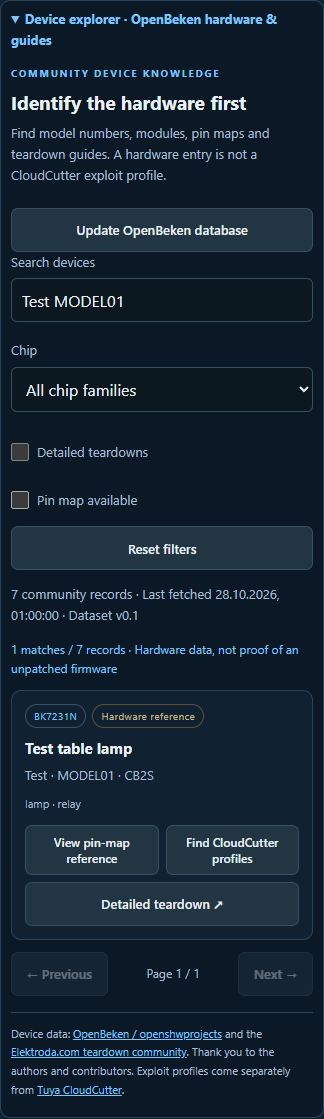
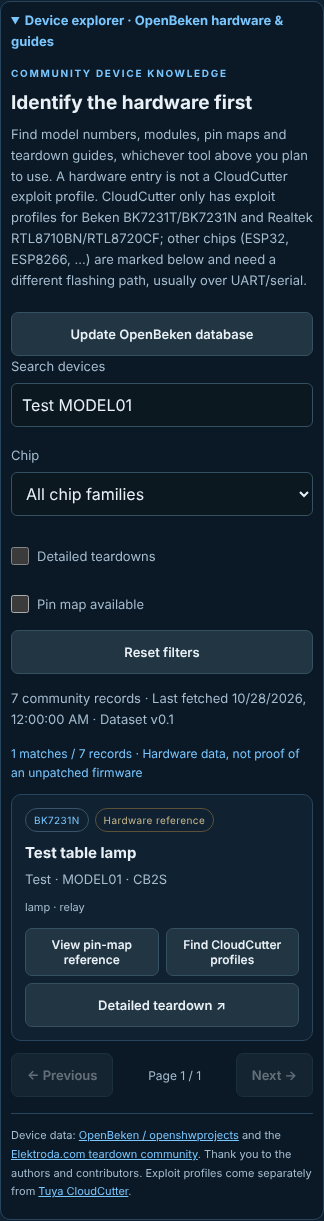
Unify the hardware explorer across tools and flag unsupported chips
- The OpenBeken hardware explorer is now a shared, always-visible
  reference panel instead of being nested only inside the CloudCutter
  tab, since chip/module identification is useful before choosing any
  of the three tools.
- "Find CloudCutter profiles" now switches to the CloudCutter tab by
  itself, reusing the existing tab-switch handler, instead of requiring
  a manual tab switch first.
- Mark hardware-explorer devices whose chip (ESP32, ESP8266, ...) has
  no CloudCutter exploit profile with a short note instead of a
  dead-end "Find CloudCutter profiles" search. CloudCutter only covers
  Beken BK7231T/BK7231N and Realtek RTL8710BN/RTL8720CF; the frontend
  constant mirrors breaker_catalog.CHIPS, the backend source of truth.
- Remove a dead, overridden .tool-tabs CSS rule and align the
  CloudCutter tab label with the name used elsewhere in the app
  ("Tuya CloudCutter").
- Bump to 2026.11.20.4 and update the WebUI/Playwright check and its
  screenshots for the new layout.

Verified: tools/sync_project.py --check, the shared hass-workflows
validator, the full Python test suite (116 tests, including the
CloudCutter catalogue/controller tests), tests/test_webui.cjs, and
tools/check_breaker_ui.cjs at all three breakpoints all pass.

diff --git a/tuya_breaker/app/static/style.css b/tuya_breaker/app/static/style.css
@@ -19,14 +19,14 @@ button,.button,input,select{min-height:44px}summary{min-height:44px;align-conten
 .log-actions button{min-height:44px}.follow{display:flex;align-items:center;gap:5px;min-height:44px}.follow input{min-height:20px}
 @media(max-width:600px){header{align-items:flex-start;flex-wrap:wrap}.version{display:inline-block}.section-heading,.adapter-settings,.preparation-body{padding:14px 16px}.toolbar,.firmware-card{padding:16px}.actions{width:100%}.actions>*{flex:1 1 140px}input,select{font-size:16px}.risk-check{font-size:13px}.log-actions{flex-wrap:wrap}#choice-form{padding:14px}#choice-form button{flex:1}pre{height:clamp(240px,45svh,380px);padding:14px}.firmware-card{margin-top:16px}.firmware-card form button{width:100%}}
 
-.tool-card{margin-bottom:18px}.tool-tabs{display:flex;gap:10px;flex-wrap:wrap;margin-bottom:12px}.tool-tabs>*{flex:1}.tool-card input,.tool-card select{display:block;width:100%;max-width:100%;margin:6px 0 14px}.tool-card label{display:block;font-size:13px;color:var(--muted);margin-top:12px}.tool-card p{font-size:13px}.tool-card .hint{padding:8px 0}.tool-card form{margin-top:14px}.tool-card form button{margin:8px 0}.tool-card #cc-review{color:#ffdbb0}.tool-tabs [aria-pressed=true]{border-color:var(--cyan)}
+.tool-card{margin-bottom:18px}.tool-card input,.tool-card select{display:block;width:100%;max-width:100%;margin:6px 0 14px}.tool-card label{display:block;font-size:13px;color:var(--muted);margin-top:12px}.tool-card p{font-size:13px}.tool-card .hint{padding:8px 0}.tool-card form{margin-top:14px}.tool-card form button{margin:8px 0}.tool-card #cc-review{color:#ffdbb0}.tool-tabs [aria-pressed=true]{border-color:var(--cyan)}
 @media(max-width:600px){.tool-card button,.tool-card .button{width:100%}.tool-tabs button{width:auto}.tool-card h2{font-size:17px}}
 :root{--cyan:#7ac7ff;--accent-fill:#7ac7ff;--bg:#09131d;--panel:#102131;--line:#27465e;--muted:#a6bdd0;--button-text:#09212b}
 button:not(.secondary):not(.danger),.button:not(.secondary){background:var(--accent-fill);color:var(--button-text)}
 button,.button{color:var(--button-text)}button.secondary,.button.secondary{color:var(--text)}button.danger{color:#ffb3ac}.risk-check input{min-height:20px}
 .appearance-card{padding:12px 16px;margin-bottom:18px}.appearance-card summary{font-weight:600}.appearance-card label{font-size:13px}.appearance-card input{width:52px;height:44px;vertical-align:middle;margin:0 10px}.appearance-card output{font:12px ui-monospace,monospace;margin-right:12px}.appearance-card .hint{padding:8px 0 0}
 
-.tool-tabs {display:grid;grid-template-columns:repeat(3,minmax(0,1fr));gap:.5rem}
+.tool-tabs {display:grid;grid-template-columns:repeat(3,minmax(0,1fr));gap:.5rem;margin-bottom:12px}
 .tool-tabs button {min-width:0;overflow-wrap:anywhere;font-size:clamp(.75rem,2.8vw,1rem);padding:.7rem .35rem}
 .ll-backup {border-top:1px solid var(--line);padding:1rem 0}
 .ll-backup .hint {overflow-wrap:anywhere}
@@ -49,7 +49,7 @@ footer .footer-actions{display:flex;flex-wrap:wrap;justify-content:center;gap:8p
 footer .support-link{display:inline-flex;align-items:center;justify-content:center;color:var(--cyan);text-decoration:none;border:1px solid var(--line);border-radius:7px;padding:6px 12px}
 footer .support-link:hover{border-color:var(--cyan)}
 
-.hardware-explorer{margin:16px 0;padding:0 14px 14px;border:1px solid var(--line);border-radius:10px;background:#0b1926}.hardware-explorer>summary{font-weight:650;padding:8px 0}.explorer-heading{display:flex;align-items:start;justify-content:space-between;gap:16px}.explorer-heading h3{margin:4px 0;font-size:19px}.explorer-heading p{max-width:620px}.explorer-filters{display:grid;grid-template-columns:minmax(0,2fr) minmax(0,1fr);gap:4px 16px;align-items:end}.explorer-filters label{margin:0}.tool-card .explorer-check{display:flex;align-items:center;gap:8px;min-height:44px;font-size:13px}.tool-card .explorer-check input{width:18px;min-height:18px;height:18px;margin:0;accent-color:var(--cyan)}.device-grid{display:grid;grid-template-columns:repeat(auto-fit,minmax(min(100%,260px),1fr));gap:12px;margin:12px 0}.device-tile{padding:16px;border:1px solid var(--line);border-radius:10px;background:var(--panel);min-width:0}.device-tile h4{font-size:15px;line-height:1.4;margin:10px 0 5px;overflow-wrap:anywhere}.device-tile p{overflow-wrap:anywhere}.device-badges{display:flex;gap:6px;flex-wrap:wrap}.device-badges span{font-size:10px;letter-spacing:.4px;border:1px solid #38546a;border-radius:20px;padding:3px 8px;color:var(--cyan)}.device-badges span.reference{color:#c6b98d;border-color:#5c5138}.device-tile .device-keywords{font-size:11px;color:var(--muted);margin:9px 0}.device-tile-actions{display:flex;flex-wrap:wrap;gap:7px;margin-top:12px}.device-tile-actions>*{flex:1 1 130px}.device-tile-actions button{padding:8px;font-size:12px}.explorer-pages{display:flex;justify-content:space-between;align-items:center;gap:12px}.explorer-pages span{font-size:12px;color:var(--muted)}.tool-card .explorer-credits{font-size:11px;line-height:1.7;border-top:1px solid var(--line);padding-top:12px;margin-top:16px}.explorer-empty{padding:24px;border:1px dashed var(--line);border-radius:8px;color:var(--muted)}#ob-count{font-size:12px;color:var(--cyan)}#ob-dialog{background:var(--panel);color:var(--text);border:1px solid var(--line);border-radius:12px;width:min(760px,calc(100% - 24px));max-height:90svh;overflow:auto;padding:20px}#ob-dialog::backdrop{background:#03090ed9}.dialog-heading{display:flex;align-items:center;justify-content:space-between;gap:12px}.dialog-heading h3{margin:0;overflow-wrap:anywhere}.reference-warning{color:#e5c894;font-size:12px}#ob-template-json{background:var(--bg);height:auto;max-height:42svh;margin:14px 0;border-radius:8px}.dialog-heading button{flex:none}
+.hardware-explorer{margin:16px 0;padding:0 14px 14px;border:1px solid var(--line);border-radius:10px;background:#0b1926}.hardware-explorer>summary{font-weight:650;padding:8px 0}.explorer-heading{display:flex;align-items:start;justify-content:space-between;gap:16px}.explorer-heading h3{margin:4px 0;font-size:19px}.explorer-heading p{max-width:620px}.explorer-filters{display:grid;grid-template-columns:minmax(0,2fr) minmax(0,1fr);gap:4px 16px;align-items:end}.explorer-filters label{margin:0}.tool-card .explorer-check{display:flex;align-items:center;gap:8px;min-height:44px;font-size:13px}.tool-card .explorer-check input{width:18px;min-height:18px;height:18px;margin:0;accent-color:var(--cyan)}.device-grid{display:grid;grid-template-columns:repeat(auto-fit,minmax(min(100%,260px),1fr));gap:12px;margin:12px 0}.device-tile{padding:16px;border:1px solid var(--line);border-radius:10px;background:var(--panel);min-width:0}.device-tile h4{font-size:15px;line-height:1.4;margin:10px 0 5px;overflow-wrap:anywhere}.device-tile p{overflow-wrap:anywhere}.device-badges{display:flex;gap:6px;flex-wrap:wrap}.device-badges span{font-size:10px;letter-spacing:.4px;border:1px solid #38546a;border-radius:20px;padding:3px 8px;color:var(--cyan)}.device-badges span.reference{color:#c6b98d;border-color:#5c5138}.device-badges span.unsupported{color:#ffb3ac;border-color:#5c3a38}.device-tile .device-keywords{font-size:11px;color:var(--muted);margin:9px 0}.device-tile-actions{display:flex;flex-wrap:wrap;gap:7px;margin-top:12px}.device-tile-actions>*{flex:1 1 130px}.device-tile-actions button{padding:8px;font-size:12px}.device-tile-actions .unsupported-hint{flex:1 1 100%;color:var(--muted);font-size:11px;padding:4px 0;margin:0}.explorer-pages{display:flex;justify-content:space-between;align-items:center;gap:12px}.explorer-pages span{font-size:12px;color:var(--muted)}.tool-card .explorer-credits{font-size:11px;line-height:1.7;border-top:1px solid var(--line);padding-top:12px;margin-top:16px}.explorer-empty{padding:24px;border:1px dashed var(--line);border-radius:8px;color:var(--muted)}#ob-count{font-size:12px;color:var(--cyan)}#ob-dialog{background:var(--panel);color:var(--text);border:1px solid var(--line);border-radius:12px;width:min(760px,calc(100% - 24px));max-height:90svh;overflow:auto;padding:20px}#ob-dialog::backdrop{background:#03090ed9}.dialog-heading{display:flex;align-items:center;justify-content:space-between;gap:12px}.dialog-heading h3{margin:0;overflow-wrap:anywhere}.reference-warning{color:#e5c894;font-size:12px}#ob-template-json{background:var(--bg);height:auto;max-height:42svh;margin:14px 0;border-radius:8px}.dialog-heading button{flex:none}
 @media(max-width:600px){.hardware-explorer{padding:0 10px 12px}.explorer-heading{flex-direction:column}.explorer-filters{grid-template-columns:1fr}.explorer-pages button{width:auto}.device-tile{padding:13px}.dialog-heading button{width:auto}.device-tile-actions>*{width:100%}}
 
 

diff --git a/tuya_breaker/app/static/index.html b/tuya_breaker/app/static/index.html
@@ -13,9 +13,26 @@
 <main>
 <section class="card tool-card"><div class="section-heading"><div><span class="eyebrow">EXPERIMENTAL · CHOOSE A TOOL</span><h2>One workspace, one active radio</h2></div></div>
 <div class="adapter-settings"><div class="tool-tabs" role="group" aria-label="Flashing tool">
-<button id="tool-untuyaos3" type="button" aria-pressed="true">UnTuyaOS3</button><button id="tool-lightleak" class="secondary" type="button" aria-pressed="false">Lightleak</button><button id="tool-cloudcutter" class="secondary" type="button" aria-pressed="false">Tuya-Cloudcutter</button></div>
+<button id="tool-untuyaos3" type="button" aria-pressed="true">UnTuyaOS3</button><button id="tool-lightleak" class="secondary" type="button" aria-pressed="false">Lightleak</button><button id="tool-cloudcutter" class="secondary" type="button" aria-pressed="false">Tuya CloudCutter</button></div>
 <p id="tool-description">UnTuyaOS3: use the established platform and firmware menus.</p>
 <p class="hint">The tools use different exploits. A successful run with one does not establish compatibility with the other. Tool selection unlocks after cleanup.</p>
+<details id="hardware-explorer" class="hardware-explorer"><summary>Device explorer · OpenBeken hardware & guides</summary>
+<div class="explorer-heading"><div><span class="eyebrow">COMMUNITY DEVICE KNOWLEDGE</span><h3>Identify the hardware first</h3><p>Find model numbers, modules, pin maps and teardown guides, whichever tool above you plan to use. A hardware entry is not a CloudCutter exploit profile. CloudCutter only has exploit profiles for Beken BK7231T/BK7231N and Realtek RTL8710BN/RTL8720CF; other chips (ESP32, ESP8266, …) are marked below and need a different flashing path, usually over UART/serial.</p></div>
+<button id="ob-refresh" class="secondary" type="button">Update OpenBeken database</button></div>
+<div class="explorer-filters"><label>Search devices<input id="ob-search" type="search" placeholder="Action, LSC, model, module, keywords…" autocomplete="off"></label>
+<label>Chip<select id="ob-chip"><option value="">All chip families</option></select></label>
+<label class="explorer-check"><input id="ob-detailed" type="checkbox"> Detailed teardowns</label><label class="explorer-check"><input id="ob-template" type="checkbox"> Pin map available</label>
+<button id="ob-reset" class="secondary" type="button">Reset filters</button></div>
+<p id="ob-meta" class="hint">Database not loaded yet. Update it once; the cached list remains available offline.</p>
+<p id="ob-count" role="status" aria-live="polite"></p><div id="ob-results" class="device-grid"></div>
+<nav class="explorer-pages" aria-label="Device results pages"><button id="ob-previous" class="secondary" type="button" disabled>← Previous</button><span id="ob-page">Page 1</span><button id="ob-next" class="secondary" type="button" disabled>Next →</button></nav>
+<p class="explorer-credits">Device data: <a href="https://openbekeniot.github.io/webapp/devicesList.html" target="_blank" rel="noopener noreferrer">OpenBeken / openshwprojects</a> and the <a href="https://www.elektroda.com/rtvforum/forum507.html" target="_blank" rel="noopener noreferrer">Elektroda.com teardown community</a>. Thank you to the authors and contributors. Exploit profiles come separately from <a href="https://github.com/tuya-cloudcutter/tuya-cloudcutter" target="_blank" rel="noopener noreferrer">Tuya CloudCutter</a>.</p>
+<dialog id="ob-dialog" aria-labelledby="ob-dialog-title"><div class="dialog-heading"><h3 id="ob-dialog-title">Hardware reference</h3><button id="ob-close" class="secondary" type="button" autofocus>Close ×</button></div>
+<p id="ob-dialog-meta"></p><p class="reference-warning">Reference only. Match the exact hardware revision before using any pin map. This does not establish OTA exploit compatibility. Nothing here is applied to a device.</p>
+<pre id="ob-template-json" tabindex="0" aria-label="Read-only OpenBeken hardware template"></pre><button id="ob-copy" class="secondary" type="button">Copy reference JSON</button>
+<p class="hint">Original community data; configurations may be partial. Consult the linked teardown.</p></dialog>
+</details>
+
 <div id="lightleak-settings" hidden>
 <details id="ll-configuration" open><summary>Lightleak · chip, AP and flash backup</summary>
 <p><strong>Experimental. Lightleak setup writes target flash and can brick your device.</strong> It installs a Wi-Fi stager and erases/writes a payload sector before reading a 2 MiB dump. The dump contains secrets and payload changes. This mode does not install replacement firmware.</p>
@@ -36,23 +53,6 @@
 <div id="cloudcutter-settings" hidden>
 <details id="cc-configuration" open><summary>Device profile and operation</summary>
 <p><strong>CloudCutter needs an exact device/firmware profile.</strong> Check the original firmware version before removing the device from SmartLife. Patched firmware cannot be made vulnerable by selecting another profile.</p>
-<details id="hardware-explorer" class="hardware-explorer"><summary>Device explorer · OpenBeken hardware & guides</summary>
-<div class="explorer-heading"><div><span class="eyebrow">COMMUNITY DEVICE KNOWLEDGE</span><h3>Identify the hardware first</h3><p>Find model numbers, modules, pin maps and teardown guides. A hardware entry is not a CloudCutter exploit profile.</p></div>
-<button id="ob-refresh" class="secondary" type="button">Update OpenBeken database</button></div>
-<div class="explorer-filters"><label>Search devices<input id="ob-search" type="search" placeholder="Action, LSC, model, module, keywords…" autocomplete="off"></label>
-<label>Chip<select id="ob-chip"><option value="">All chip families</option></select></label>
-<label class="explorer-check"><input id="ob-detailed" type="checkbox"> Detailed teardowns</label><label class="explorer-check"><input id="ob-template" type="checkbox"> Pin map available</label>
-<button id="ob-reset" class="secondary" type="button">Reset filters</button></div>
-<p id="ob-meta" class="hint">Database not loaded yet. Update it once; the cached list remains available offline.</p>
-<p id="ob-count" role="status" aria-live="polite"></p><div id="ob-results" class="device-grid"></div>
-<nav class="explorer-pages" aria-label="Device results pages"><button id="ob-previous" class="secondary" type="button" disabled>← Previous</button><span id="ob-page">Page 1</span><button id="ob-next" class="secondary" type="button" disabled>Next →</button></nav>
-<p class="explorer-credits">Device data: <a href="https://openbekeniot.github.io/webapp/devicesList.html" target="_blank" rel="noopener noreferrer">OpenBeken / openshwprojects</a> and the <a href="https://www.elektroda.com/rtvforum/forum507.html" target="_blank" rel="noopener noreferrer">Elektroda.com teardown community</a>. Thank you to the authors and contributors. Exploit profiles come separately from <a href="https://github.com/tuya-cloudcutter/tuya-cloudcutter" target="_blank" rel="noopener noreferrer">Tuya CloudCutter</a>.</p>
-<dialog id="ob-dialog" aria-labelledby="ob-dialog-title"><div class="dialog-heading"><h3 id="ob-dialog-title">Hardware reference</h3><button id="ob-close" class="secondary" type="button" autofocus>Close ×</button></div>
-<p id="ob-dialog-meta"></p><p class="reference-warning">Reference only. Match the exact hardware revision before using any pin map. This does not establish OTA exploit compatibility. Nothing here is applied to a device.</p>
-<pre id="ob-template-json" tabindex="0" aria-label="Read-only OpenBeken hardware template"></pre><button id="ob-copy" class="secondary" type="button">Copy reference JSON</button>
-<p class="hint">Original community data; configurations may be partial. Consult the linked teardown.</p></dialog>
-</details>
-
 <button id="cc-refresh" class="secondary" type="button">Load / refresh official device catalogue</button>
 <details id="cc-device-picker" open><summary>1 · Find the exact device and original firmware</summary><div class="cc-picker-heading"><span class="eyebrow">1 · FIND YOUR EXACT DEVICE</span><h3>Device and original firmware</h3><p class="hint">Search the model and the firmware version shown in SmartLife. Similar hardware alone is not a match.</p></div>
 <div class="cc-filters"><div><label for="cc-search">Search model or firmware</label><input id="cc-search" type="search" placeholder="Brand, model, original firmware…" autocomplete="off"></div><div><label for="cc-brand">Brand</label><select id="cc-brand"><option value="">All brands</option></select></div></div>

diff --git a/tuya_breaker/ui/hardware.css b/tuya_breaker/ui/hardware.css
@@ -1,2 +1,2 @@
-.hardware-explorer{margin:16px 0;padding:0 14px 14px;border:1px solid var(--line);border-radius:10px;background:#0b1926}.hardware-explorer>summary{font-weight:650;padding:8px 0}.explorer-heading{display:flex;align-items:start;justify-content:space-between;gap:16px}.explorer-heading h3{margin:4px 0;font-size:19px}.explorer-heading p{max-width:620px}.explorer-filters{display:grid;grid-template-columns:minmax(0,2fr) minmax(0,1fr);gap:4px 16px;align-items:end}.explorer-filters label{margin:0}.tool-card .explorer-check{display:flex;align-items:center;gap:8px;min-height:44px;font-size:13px}.tool-card .explorer-check input{width:18px;min-height:18px;height:18px;margin:0;accent-color:var(--cyan)}.device-grid{display:grid;grid-template-columns:repeat(auto-fit,minmax(min(100%,260px),1fr));gap:12px;margin:12px 0}.device-tile{padding:16px;border:1px solid var(--line);border-radius:10px;background:var(--panel);min-width:0}.device-tile h4{font-size:15px;line-height:1.4;margin:10px 0 5px;overflow-wrap:anywhere}.device-tile p{overflow-wrap:anywhere}.device-badges{display:flex;gap:6px;flex-wrap:wrap}.device-badges span{font-size:10px;letter-spacing:.4px;border:1px solid #38546a;border-radius:20px;padding:3px 8px;color:var(--cyan)}.device-badges span.reference{color:#c6b98d;border-color:#5c5138}.device-tile .device-keywords{font-size:11px;color:var(--muted);margin:9px 0}.device-tile-actions{display:flex;flex-wrap:wrap;gap:7px;margin-top:12px}.device-tile-actions>*{flex:1 1 130px}.device-tile-actions button{padding:8px;font-size:12px}.explorer-pages{display:flex;justify-content:space-between;align-items:center;gap:12px}.explorer-pages span{font-size:12px;color:var(--muted)}.tool-card .explorer-credits{font-size:11px;line-height:1.7;border-top:1px solid var(--line);padding-top:12px;margin-top:16px}.explorer-empty{padding:24px;border:1px dashed var(--line);border-radius:8px;color:var(--muted)}#ob-count{font-size:12px;color:var(--cyan)}#ob-dialog{background:var(--panel);color:var(--text);border:1px solid var(--line);border-radius:12px;width:min(760px,calc(100% - 24px));max-height:90svh;overflow:auto;padding:20px}#ob-dialog::backdrop{background:#03090ed9}.dialog-heading{display:flex;align-items:center;justify-content:space-between;gap:12px}.dialog-heading h3{margin:0;overflow-wrap:anywhere}.reference-warning{color:#e5c894;font-size:12px}#ob-template-json{background:var(--bg);height:auto;max-height:42svh;margin:14px 0;border-radius:8px}.dialog-heading button{flex:none}
+.hardware-explorer{margin:16px 0;padding:0 14px 14px;border:1px solid var(--line);border-radius:10px;background:#0b1926}.hardware-explorer>summary{font-weight:650;padding:8px 0}.explorer-heading{display:flex;align-items:start;justify-content:space-between;gap:16px}.explorer-heading h3{margin:4px 0;font-size:19px}.explorer-heading p{max-width:620px}.explorer-filters{display:grid;grid-template-columns:minmax(0,2fr) minmax(0,1fr);gap:4px 16px;align-items:end}.explorer-filters label{margin:0}.tool-card .explorer-check{display:flex;align-items:center;gap:8px;min-height:44px;font-size:13px}.tool-card .explorer-check input{width:18px;min-height:18px;height:18px;margin:0;accent-color:var(--cyan)}.device-grid{display:grid;grid-template-columns:repeat(auto-fit,minmax(min(100%,260px),1fr));gap:12px;margin:12px 0}.device-tile{padding:16px;border:1px solid var(--line);border-radius:10px;background:var(--panel);min-width:0}.device-tile h4{font-size:15px;line-height:1.4;margin:10px 0 5px;overflow-wrap:anywhere}.device-tile p{overflow-wrap:anywhere}.device-badges{display:flex;gap:6px;flex-wrap:wrap}.device-badges span{font-size:10px;letter-spacing:.4px;border:1px solid #38546a;border-radius:20px;padding:3px 8px;color:var(--cyan)}.device-badges span.reference{color:#c6b98d;border-color:#5c5138}.device-badges span.unsupported{color:#ffb3ac;border-color:#5c3a38}.device-tile .device-keywords{font-size:11px;color:var(--muted);margin:9px 0}.device-tile-actions{display:flex;flex-wrap:wrap;gap:7px;margin-top:12px}.device-tile-actions>*{flex:1 1 130px}.device-tile-actions button{padding:8px;font-size:12px}.device-tile-actions .unsupported-hint{flex:1 1 100%;color:var(--muted);font-size:11px;padding:4px 0;margin:0}.explorer-pages{display:flex;justify-content:space-between;align-items:center;gap:12px}.explorer-pages span{font-size:12px;color:var(--muted)}.tool-card .explorer-credits{font-size:11px;line-height:1.7;border-top:1px solid var(--line);padding-top:12px;margin-top:16px}.explorer-empty{padding:24px;border:1px dashed var(--line);border-radius:8px;color:var(--muted)}#ob-count{font-size:12px;color:var(--cyan)}#ob-dialog{background:var(--panel);color:var(--text);border:1px solid var(--line);border-radius:12px;width:min(760px,calc(100% - 24px));max-height:90svh;overflow:auto;padding:20px}#ob-dialog::backdrop{background:#03090ed9}.dialog-heading{display:flex;align-items:center;justify-content:space-between;gap:12px}.dialog-heading h3{margin:0;overflow-wrap:anywhere}.reference-warning{color:#e5c894;font-size:12px}#ob-template-json{background:var(--bg);height:auto;max-height:42svh;margin:14px 0;border-radius:8px}.dialog-heading button{flex:none}
 @media(max-width:600px){.hardware-explorer{padding:0 10px 12px}.explorer-heading{flex-direction:column}.explorer-filters{grid-template-columns:1fr}.explorer-pages button{width:auto}.device-tile{padding:13px}.dialog-heading button{width:auto}.device-tile-actions>*{width:100%}}

diff --git a/tuya_breaker/app/static/hardware.js b/tuya_breaker/app/static/hardware.js
@@ -1,9 +1,13 @@
 "use strict";
-let hardwareDevices = [], hardwarePage = 0, hardwareTimer, hardwareBusy = false;
+let hardwareDevices = [], hardwarePage = 0, hardwareTimer, hardwareBusy = false, currentTool = "untuyaos3";
 const HARDWARE_PAGE_SIZE = 6;
+// Mirrors breaker_catalog.CHIPS: the only chip families CloudCutter has exploit profiles for.
+// A device with any other chip (ESP32, ESP8266, XR809, …) never gets a CloudCutter match.
+const CLOUDCUTTER_CHIPS = new Set(["BK7231T", "BK7231N", "RTL8710BN", "RTL8720CF"]);
 const previousStatus = window.onSessionStatus;
 window.onSessionStatus = (state, data) => {
   previousStatus(state, data);
+  currentTool = data.tool || "untuyaos3";
   hardwareBusy = ["running","assigning","cleaning","releasing","offline"].includes(state)
     || Boolean(data.adapter_busy || data.selection_locked || breakerPending || startPending);
   $("ob-refresh").disabled = hardwareBusy;
@@ -39,7 +43,12 @@ async function showHardware(device) {
 }
 async function findHardwareProfiles(device) {
   if (hardwareBusy) return;
+  // The hardware explorer is reachable from every tool; jump to CloudCutter the
+  // same way a manual tab click would, reusing that single switch-and-poll path.
+  if (currentTool !== "cloudcutter") await $("tool-cloudcutter").onclick();
+  if (currentTool !== "cloudcutter") return; // switch was blocked; its own handler already explained why
   if (!breakerDevices.length) await $("cc-refresh").onclick();
+  $("cc-device-picker").open = true;
   $("cc-search").value = device.model || device.name;
   $("cc-search").oninput();
   $("hardware-explorer").open = false;
@@ -60,15 +69,22 @@ function renderHardware() {
   for (const device of matches.slice(hardwarePage*HARDWARE_PAGE_SIZE,(hardwarePage+1)*HARDWARE_PAGE_SIZE)) {
     const tile = document.createElement("article"); tile.className="device-tile";
     const badges = document.createElement("div"); badges.className="device-badges";
+    const cloudcutterChip = Boolean(device.chip) && CLOUDCUTTER_CHIPS.has(device.chip.toUpperCase());
     badges.append(plain("span",device.chip || "Chip unknown"),plain("span","Hardware reference","reference"));
+    if (device.chip && !cloudcutterChip) badges.append(plain("span","No CloudCutter exploit","unsupported"));
     tile.append(badges,plain("h4",device.name),plain("p",[device.vendor,device.model,device.board].filter(Boolean).join(" · ")),
       plain("p",device.keywords.slice(0,8).join(" · "),"device-keywords"));
     const actions = document.createElement("div"); actions.className="device-tile-actions";
     const detail = plain("button",device.has_template ? "View pin-map reference" : "View hardware details","secondary");
     detail.type="button"; detail.onclick=()=>showHardware(device);
-    const find = plain("button","Find CloudCutter profiles","secondary hardware-profile-search");
-    find.type="button"; find.disabled=hardwareBusy; find.onclick=()=>findHardwareProfiles(device);
-    actions.append(detail,find);
+    actions.append(detail);
+    if (device.chip && !cloudcutterChip) {
+      actions.append(plain("p","No CloudCutter exploit for this chip; these are typically flashed over UART/serial instead.","unsupported-hint"));
+    } else {
+      const find = plain("button","Find CloudCutter profiles","secondary hardware-profile-search");
+      find.type="button"; find.disabled=hardwareBusy; find.onclick=()=>findHardwareProfiles(device);
+      actions.append(find);
+    }
     if (device.guide_url) {
       const link = plain("a",device.detailed ? "Detailed teardown ↗" : "Community thread ↗","button secondary");
       link.href=device.guide_url; link.target="_blank"; link.rel="noopener noreferrer"; actions.append(link);

diff --git a/tuya_breaker/ui/tools.html b/tuya_breaker/ui/tools.html
@@ -1,8 +1,9 @@
 <section class="card tool-card"><div class="section-heading"><div><span class="eyebrow">EXPERIMENTAL · CHOOSE A TOOL</span><h2>One workspace, one active radio</h2></div></div>
 <div class="adapter-settings"><div class="tool-tabs" role="group" aria-label="Flashing tool">
-<button id="tool-untuyaos3" type="button" aria-pressed="true">UnTuyaOS3</button><button id="tool-lightleak" class="secondary" type="button" aria-pressed="false">Lightleak</button><button id="tool-cloudcutter" class="secondary" type="button" aria-pressed="false">Tuya-Cloudcutter</button></div>
+<button id="tool-untuyaos3" type="button" aria-pressed="true">UnTuyaOS3</button><button id="tool-lightleak" class="secondary" type="button" aria-pressed="false">Lightleak</button><button id="tool-cloudcutter" class="secondary" type="button" aria-pressed="false">Tuya CloudCutter</button></div>
 <p id="tool-description">UnTuyaOS3: use the established platform and firmware menus.</p>
 <p class="hint">The tools use different exploits. A successful run with one does not establish compatibility with the other. Tool selection unlocks after cleanup.</p>
+<!-- HARDWARE_EXPLORER -->
 <div id="lightleak-settings" hidden>
 <details id="ll-configuration" open><summary>Lightleak · chip, AP and flash backup</summary>
 <p><strong>Experimental. Lightleak setup writes target flash and can brick your device.</strong> It installs a Wi-Fi stager and erases/writes a payload sector before reading a 2 MiB dump. The dump contains secrets and payload changes. This mode does not install replacement firmware.</p>
@@ -23,7 +24,6 @@
 <div id="cloudcutter-settings" hidden>
 <details id="cc-configuration" open><summary>Device profile and operation</summary>
 <p><strong>CloudCutter needs an exact device/firmware profile.</strong> Check the original firmware version before removing the device from SmartLife. Patched firmware cannot be made vulnerable by selecting another profile.</p>
-<!-- HARDWARE_EXPLORER -->
 <button id="cc-refresh" class="secondary" type="button">Load / refresh official device catalogue</button>
 <details id="cc-device-picker" open><summary>1 · Find the exact device and original firmware</summary><div class="cc-picker-heading"><span class="eyebrow">1 · FIND YOUR EXACT DEVICE</span><h3>Device and original firmware</h3><p class="hint">Search the model and the firmware version shown in SmartLife. Similar hardware alone is not a match.</p></div>
 <div class="cc-filters"><div><label for="cc-search">Search model or firmware</label><input id="cc-search" type="search" placeholder="Brand, model, original firmware…" autocomplete="off"></div><div><label for="cc-brand">Brand</label><select id="cc-brand"><option value="">All brands</option></select></div></div>

diff --git a/tuya_breaker/ui/style.css b/tuya_breaker/ui/style.css
@@ -1,11 +1,11 @@
-.tool-card{margin-bottom:18px}.tool-tabs{display:flex;gap:10px;flex-wrap:wrap;margin-bottom:12px}.tool-tabs>*{flex:1}.tool-card input,.tool-card select{display:block;width:100%;max-width:100%;margin:6px 0 14px}.tool-card label{display:block;font-size:13px;color:var(--muted);margin-top:12px}.tool-card p{font-size:13px}.tool-card .hint{padding:8px 0}.tool-card form{margin-top:14px}.tool-card form button{margin:8px 0}.tool-card #cc-review{color:#ffdbb0}.tool-tabs [aria-pressed=true]{border-color:var(--cyan)}
+.tool-card{margin-bottom:18px}.tool-card input,.tool-card select{display:block;width:100%;max-width:100%;margin:6px 0 14px}.tool-card label{display:block;font-size:13px;color:var(--muted);margin-top:12px}.tool-card p{font-size:13px}.tool-card .hint{padding:8px 0}.tool-card form{margin-top:14px}.tool-card form button{margin:8px 0}.tool-card #cc-review{color:#ffdbb0}.tool-tabs [aria-pressed=true]{border-color:var(--cyan)}
 @media(max-width:600px){.tool-card button,.tool-card .button{width:100%}.tool-tabs button{width:auto}.tool-card h2{font-size:17px}}
 :root{--cyan:#7ac7ff;--accent-fill:#7ac7ff;--bg:#09131d;--panel:#102131;--line:#27465e;--muted:#a6bdd0;--button-text:#09212b}
 button:not(.secondary):not(.danger),.button:not(.secondary){background:var(--accent-fill);color:var(--button-text)}
 button,.button{color:var(--button-text)}button.secondary,.button.secondary{color:var(--text)}button.danger{color:#ffb3ac}.risk-check input{min-height:20px}
 .appearance-card{padding:12px 16px;margin-bottom:18px}.appearance-card summary{font-weight:600}.appearance-card label{font-size:13px}.appearance-card input{width:52px;height:44px;vertical-align:middle;margin:0 10px}.appearance-card output{font:12px ui-monospace,monospace;margin-right:12px}.appearance-card .hint{padding:8px 0 0}
 
-.tool-tabs {display:grid;grid-template-columns:repeat(3,minmax(0,1fr));gap:.5rem}
+.tool-tabs {display:grid;grid-template-columns:repeat(3,minmax(0,1fr));gap:.5rem;margin-bottom:12px}
 .tool-tabs button {min-width:0;overflow-wrap:anywhere;font-size:clamp(.75rem,2.8vw,1rem);padding:.7rem .35rem}
 .ll-backup {border-top:1px solid var(--line);padding:1rem 0}
 .ll-backup .hint {overflow-wrap:anywhere}

diff --git a/tuya_breaker/ui/hardware.html b/tuya_breaker/ui/hardware.html
@@ -1,5 +1,5 @@
 <details id="hardware-explorer" class="hardware-explorer"><summary>Device explorer · OpenBeken hardware & guides</summary>
-<div class="explorer-heading"><div><span class="eyebrow">COMMUNITY DEVICE KNOWLEDGE</span><h3>Identify the hardware first</h3><p>Find model numbers, modules, pin maps and teardown guides. A hardware entry is not a CloudCutter exploit profile.</p></div>
+<div class="explorer-heading"><div><span class="eyebrow">COMMUNITY DEVICE KNOWLEDGE</span><h3>Identify the hardware first</h3><p>Find model numbers, modules, pin maps and teardown guides, whichever tool above you plan to use. A hardware entry is not a CloudCutter exploit profile. CloudCutter only has exploit profiles for Beken BK7231T/BK7231N and Realtek RTL8710BN/RTL8720CF; other chips (ESP32, ESP8266, …) are marked below and need a different flashing path, usually over UART/serial.</p></div>
 <button id="ob-refresh" class="secondary" type="button">Update OpenBeken database</button></div>
 <div class="explorer-filters"><label>Search devices<input id="ob-search" type="search" placeholder="Action, LSC, model, module, keywords…" autocomplete="off"></label>
 <label>Chip<select id="ob-chip"><option value="">All chip families</option></select></label>

diff --git a/tuya_breaker/CHANGELOG.md b/tuya_breaker/CHANGELOG.md
@@ -1,5 +1,16 @@
 # Changelog
 
+## 2026.11.20.4
+
+- Unify the three tool workspaces: the OpenBeken hardware explorer is now a shared, always-visible
+  reference panel instead of being nested only inside the CloudCutter tab, and "Find CloudCutter
+  profiles" now switches to the CloudCutter tab itself instead of requiring a manual switch first.
+- Mark hardware-explorer devices whose chip (e.g. ESP32, ESP8266) has no CloudCutter exploit
+  profile, with a short note instead of a dead-end "Find CloudCutter profiles" search; only
+  Beken BK7231T/BK7231N and Realtek RTL8710BN/RTL8720CF are covered by CloudCutter today.
+- Minor WebUI cleanup: remove a dead, overridden `.tool-tabs` CSS rule and align the CloudCutter
+  tab label with its name used elsewhere in the app ("Tuya CloudCutter").
+
 ## 2026.11.20.3
 
 - Follow the selected base image tag without a digest suffix.
